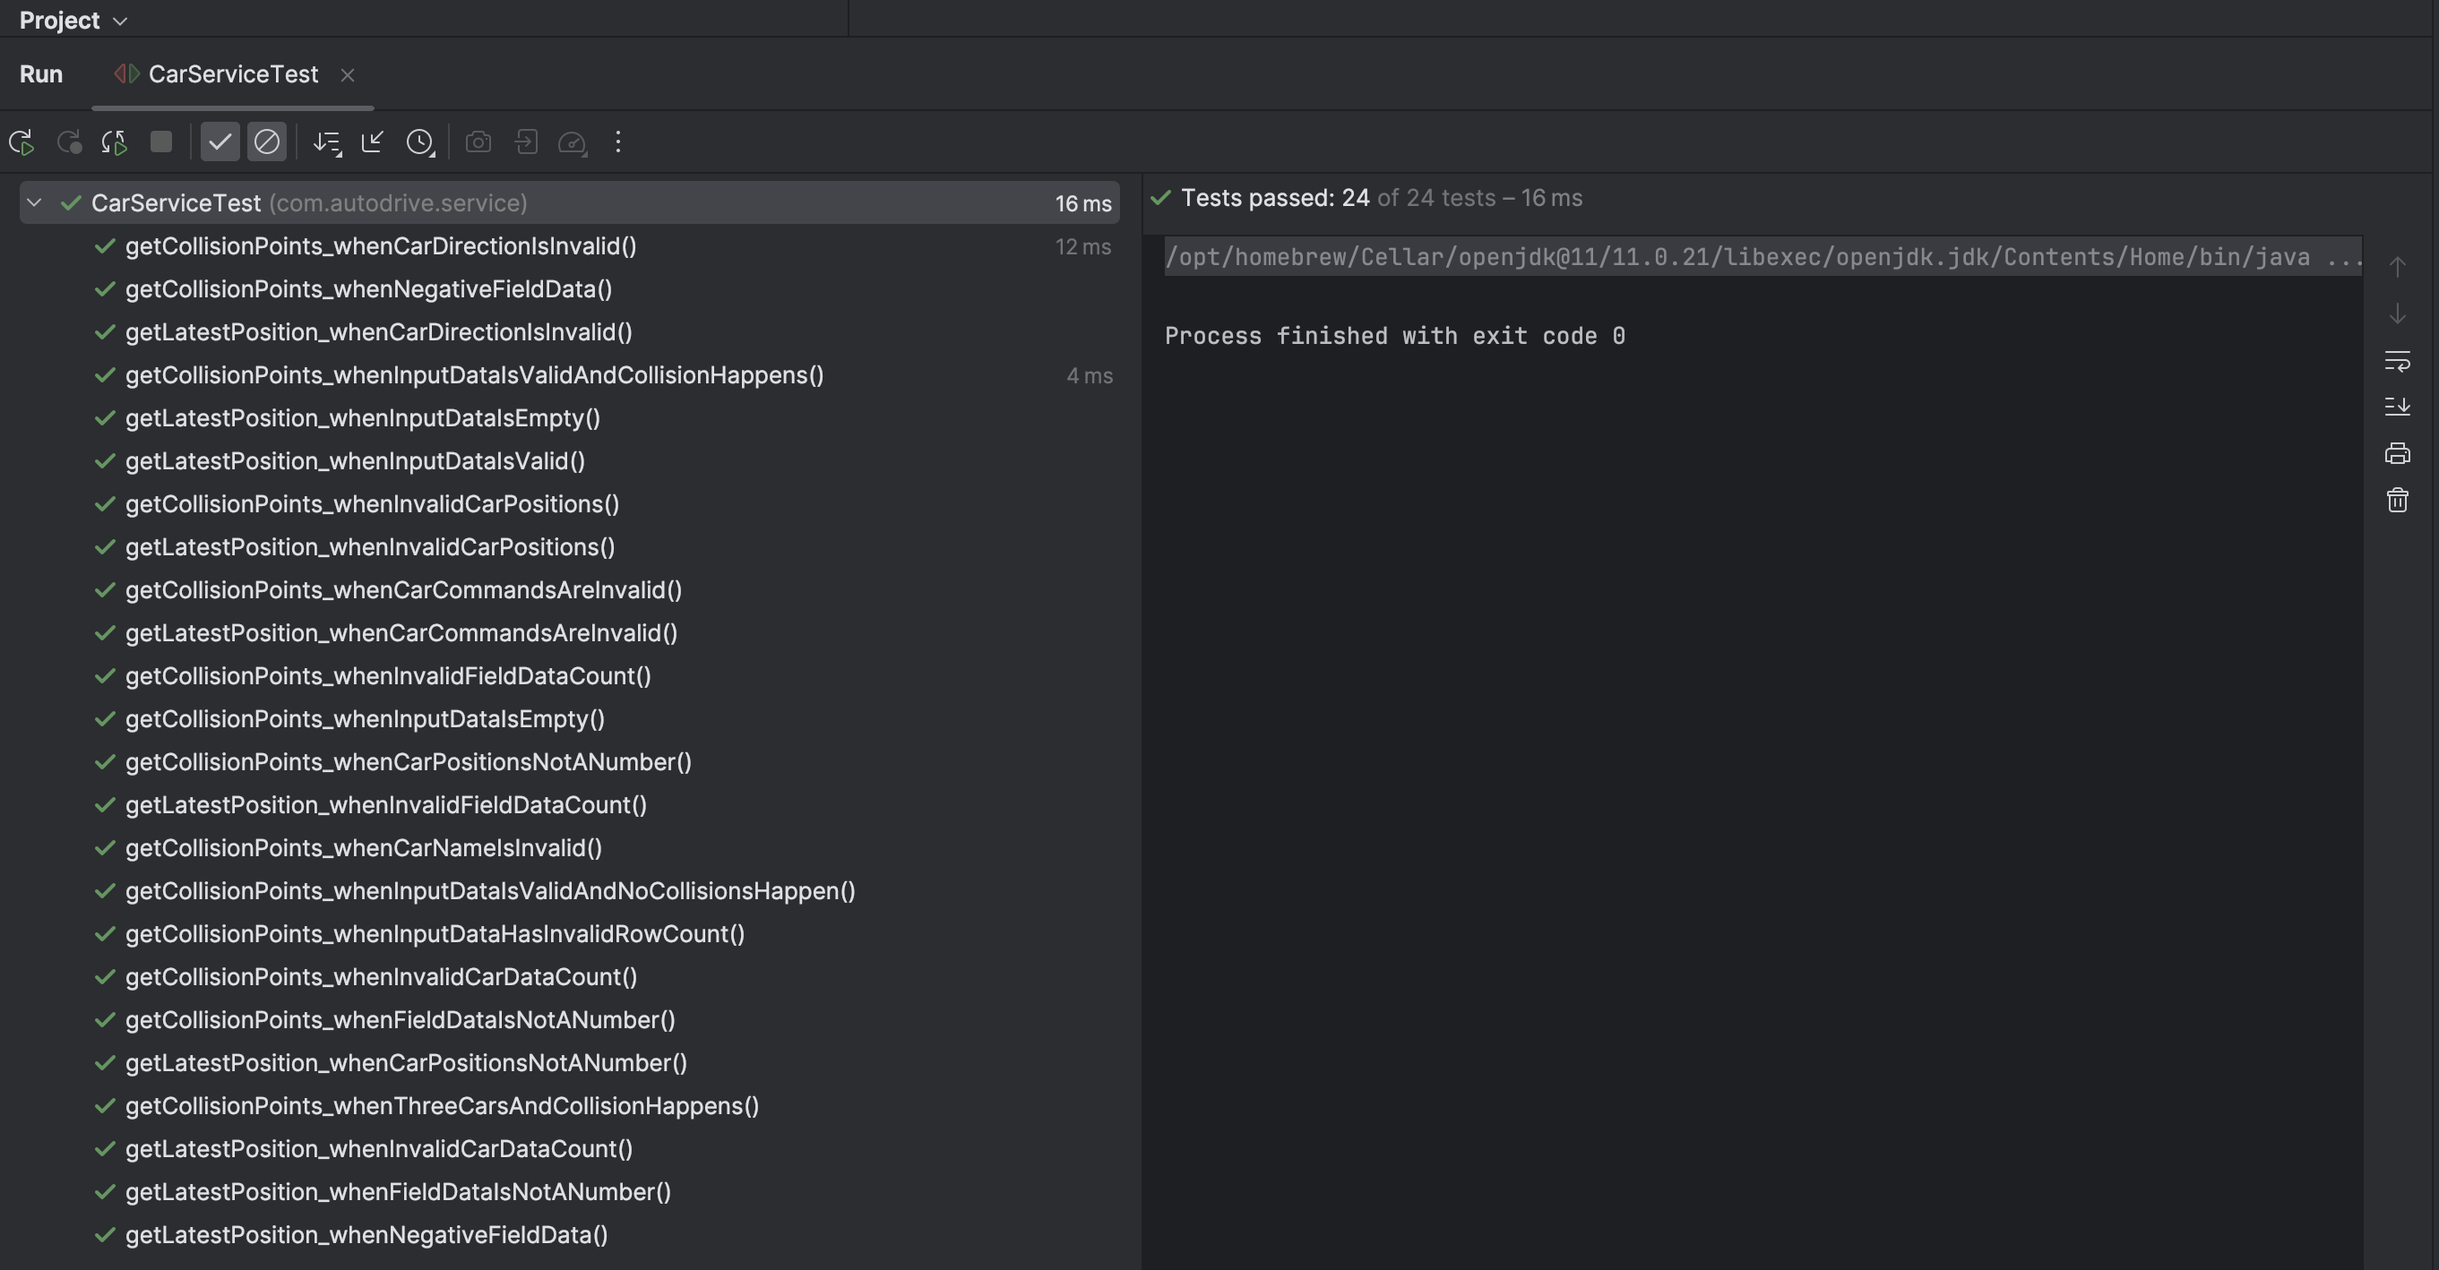
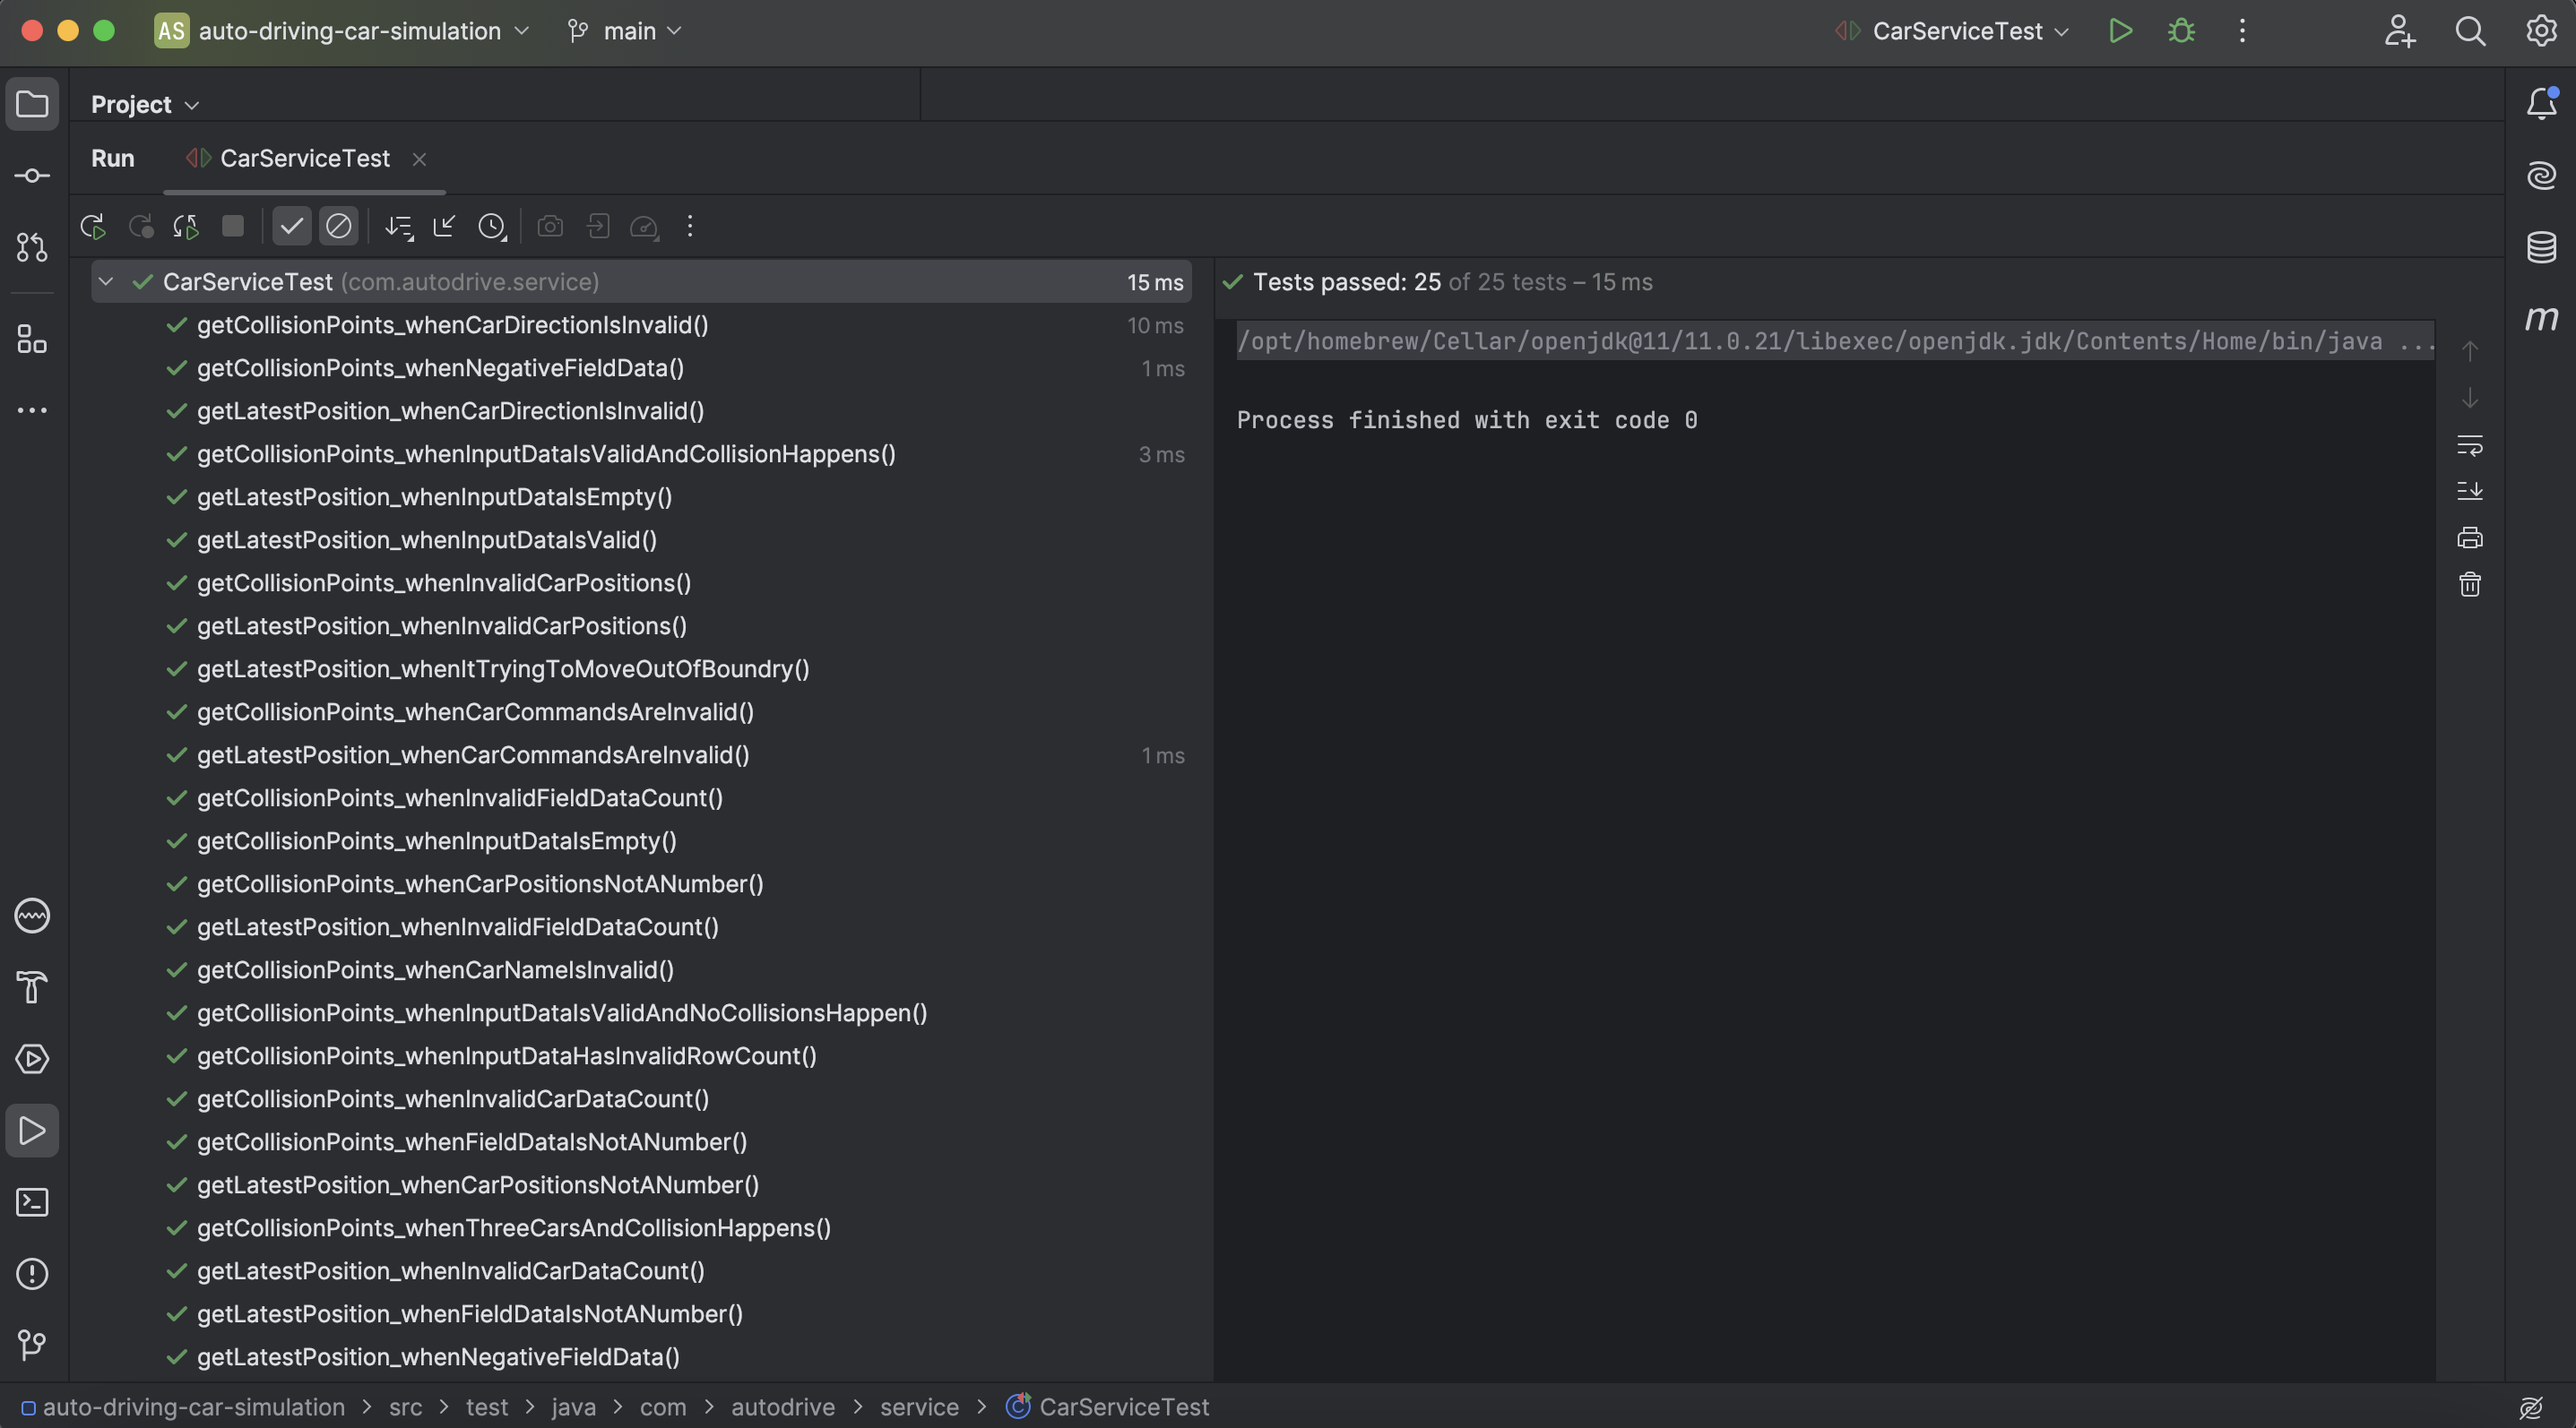
boundry limit logic changed, updated tests

diff --git a/src/test/java/com/autodrive/service/CarServiceTest.java b/src/test/java/com/autodrive/service/CarServiceTest.java
@@ -152,6 +152,15 @@ class CarServiceTest {
   }
 
   @Test
+  void getLatestPosition_whenItTryingToMoveOutOfBoundry() {
+    List<String> inputData = new ArrayList<>(
+        Arrays.asList("5 5", "1 1 N", "FFFFFFFFRFFFFFFFF")
+    );
+    String result = carService.getLatestPosition(inputData);
+    Assertions.assertEquals("4 4 E", result);
+  }
+
+  @Test
   void getCollisionPoints_whenInputDataIsEmpty() {
     Exception exception = Assertions.assertThrows(InputValidationFailedException.class,
         () -> carService.getCollisionPoints(Collections.emptyList()));

diff --git a/src/main/java/com/autodrive/model/Car.java b/src/main/java/com/autodrive/model/Car.java
@@ -31,12 +31,12 @@ public class Car extends Navigation {
   public void moveForward(int width, int height) {
     switch (direction) {
       case NORTH:
-        if (positionY < height) {
+        if (positionY < height - 1) {
           positionY++;
         }
         break;
       case EAST:
-        if (positionX < width) {
+        if (positionX < width - 1) {
           positionX++;
         }
         break;
